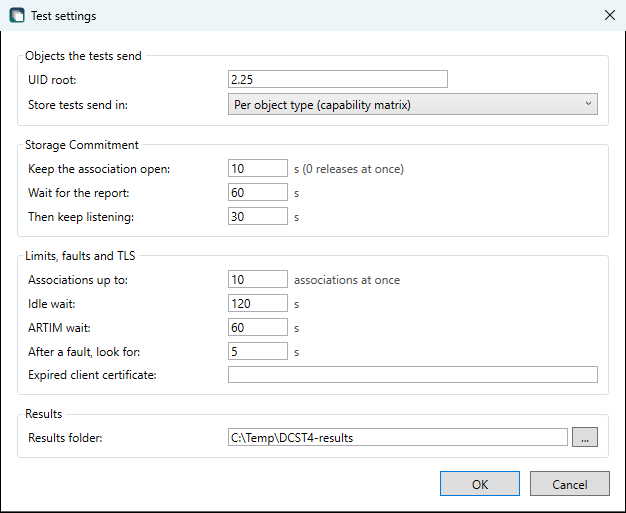
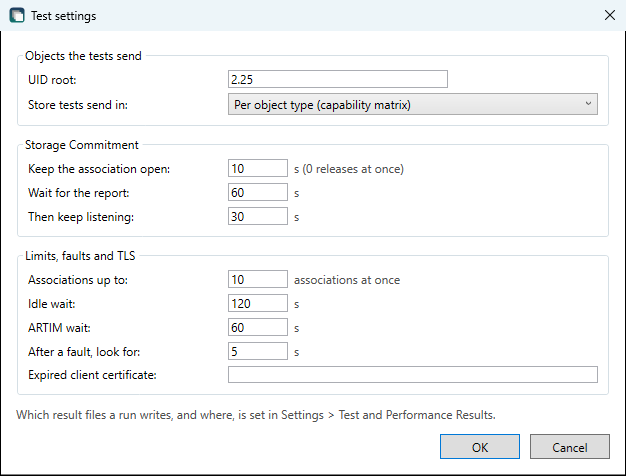
1.10.0: retake the README screenshots, and add Performance settings and the Results tab

diff --git a/README.md b/README.md
@@ -237,6 +237,8 @@ Each run can write `DCST4-run-<UTC time>.json` with full detail, a `.csv` with o
 
 **Which files, and for how long.** These settings are under **File > Settings**, on the **Test and Performance Results** tab, and apply to runs on the Tests and Performance tabs. By default a run writes only its HTML report. The command line always writes all its files, the series files included, and never deletes anything.
 
+![The Test and Performance Results tab in Settings](screenshots/settings-results.png)
+
 | In Settings, Test and Performance Results | Default | Meaning |
 | ---------------- | ------- | ------- |
 | Each run writes: JSON | Not ticked | The file with full detail, and the capability matrix as JSON. **Compare runs...** reads this file, so a run saved without it cannot be compared later |
@@ -491,6 +493,8 @@ Percentiles are p50, p95, p99 and the maximum, by nearest rank. They come from a
 | `large-lossless` | Enhanced CT in JPEG Lossless. Breast Tomosynthesis is generated uncompressed only |
 
 `--load-pdu` sets the maximum PDU length that DCST4 announces and sends its data PDUs with, at most what the PACS announces. 0, the default, is fo-dicom's default of 262144, which an ordinary send uses.
+
+![The Performance settings dialog](screenshots/performance-settings.png)
 
 | In Performance settings        | Command line                  | Default | Meaning |
 | ------------------------------ | ----------------------------- | ------- | ------- |
@@ -919,6 +923,7 @@ Changed:
 - The default Max instances is raised from 1,000 to 5,000 for Load and from 2,000 to 12,000 for Ramp, so that a ramp reaches its last step against a fast system. Every one of them is a new object on the destination
 - **Generate & Send** follows the patient name setting under **File > Settings**, on the Identifiers tab, like the tests. With the default, its Auto patient name is now `DCST4^TEST^<number>` in place of a Swedish name. Choose **Swedish name** there to get the Swedish names back. A name typed on the Identifiers tab always wins
 - The results list on the Tests tab scrolls to each new result while a run is going
+- The README screenshots are retaken, with new ones of the Performance settings dialog and the Test and Performance Results tab in Settings
 
 ### 1.9.1
 
